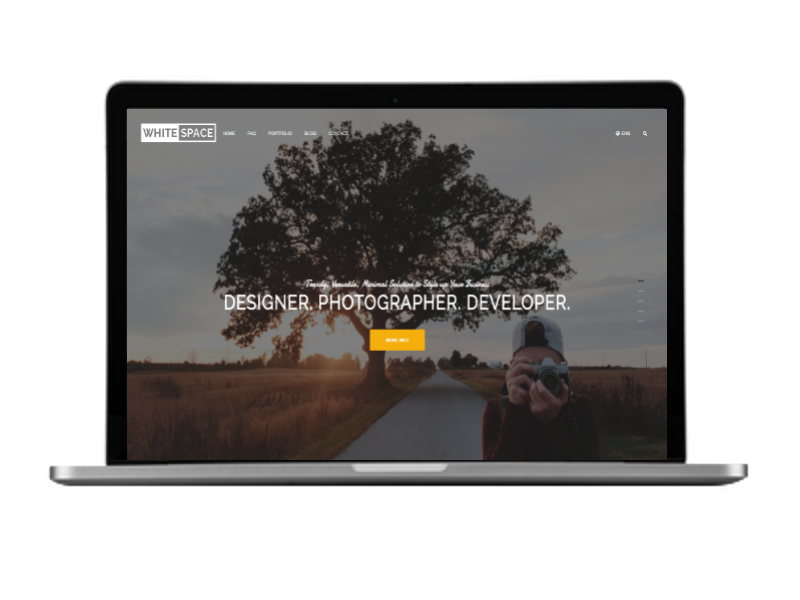
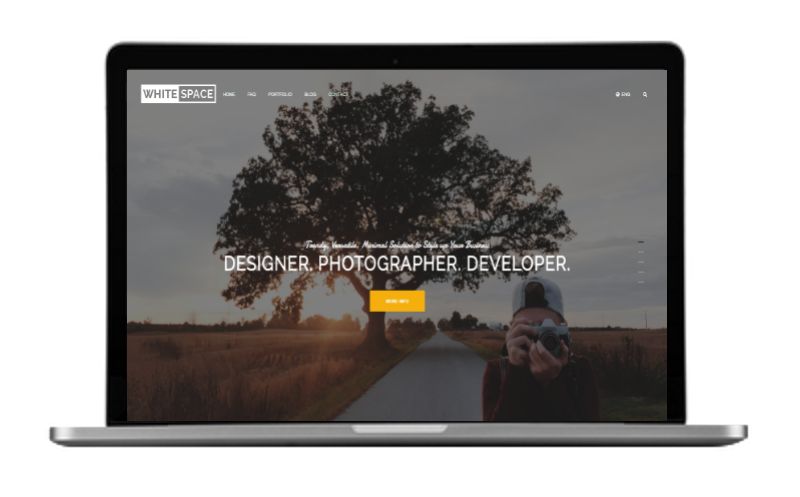
fixed project image size

Changed region(s): [[0.0625, 0.3924, 0.9375, 0.9054], [0.125, 0.0604, 0.875, 0.3622]]

diff --git a/index.html b/index.html
@@ -153,7 +153,7 @@
 				<input type="text" name="name" placeholder="Name" required>			
 				<input type="email" name="email" placeholder="Email" required>			
 				<input type="text" name="phone" placeholder="Phone Number">				
-				<textarea rows="2" placeholder="Message"></textarea>
+				<textarea rows="3" placeholder="Message"></textarea>
 				<input type="submit" name="" value="submit" class="submit-btn">
 			</form>
         <ul class="social">

diff --git a/css/style.css b/css/style.css
@@ -448,7 +448,6 @@ nav a:hover {
   -webkit-flex: 1 1 50%;
       -ms-flex: 1 1 50%;
           flex: 1 1 50%;
-  height: 400px;
 }
 
 .half-container h3 {

diff --git a/css/style.scss b/css/style.scss
@@ -70,7 +70,6 @@
 .half-container{
 	color:white;
 	flex:1 1 50%;
-	height:400px;
 	h3{
 		font-size:2.4rem;
 		font-family: $titlefont;
